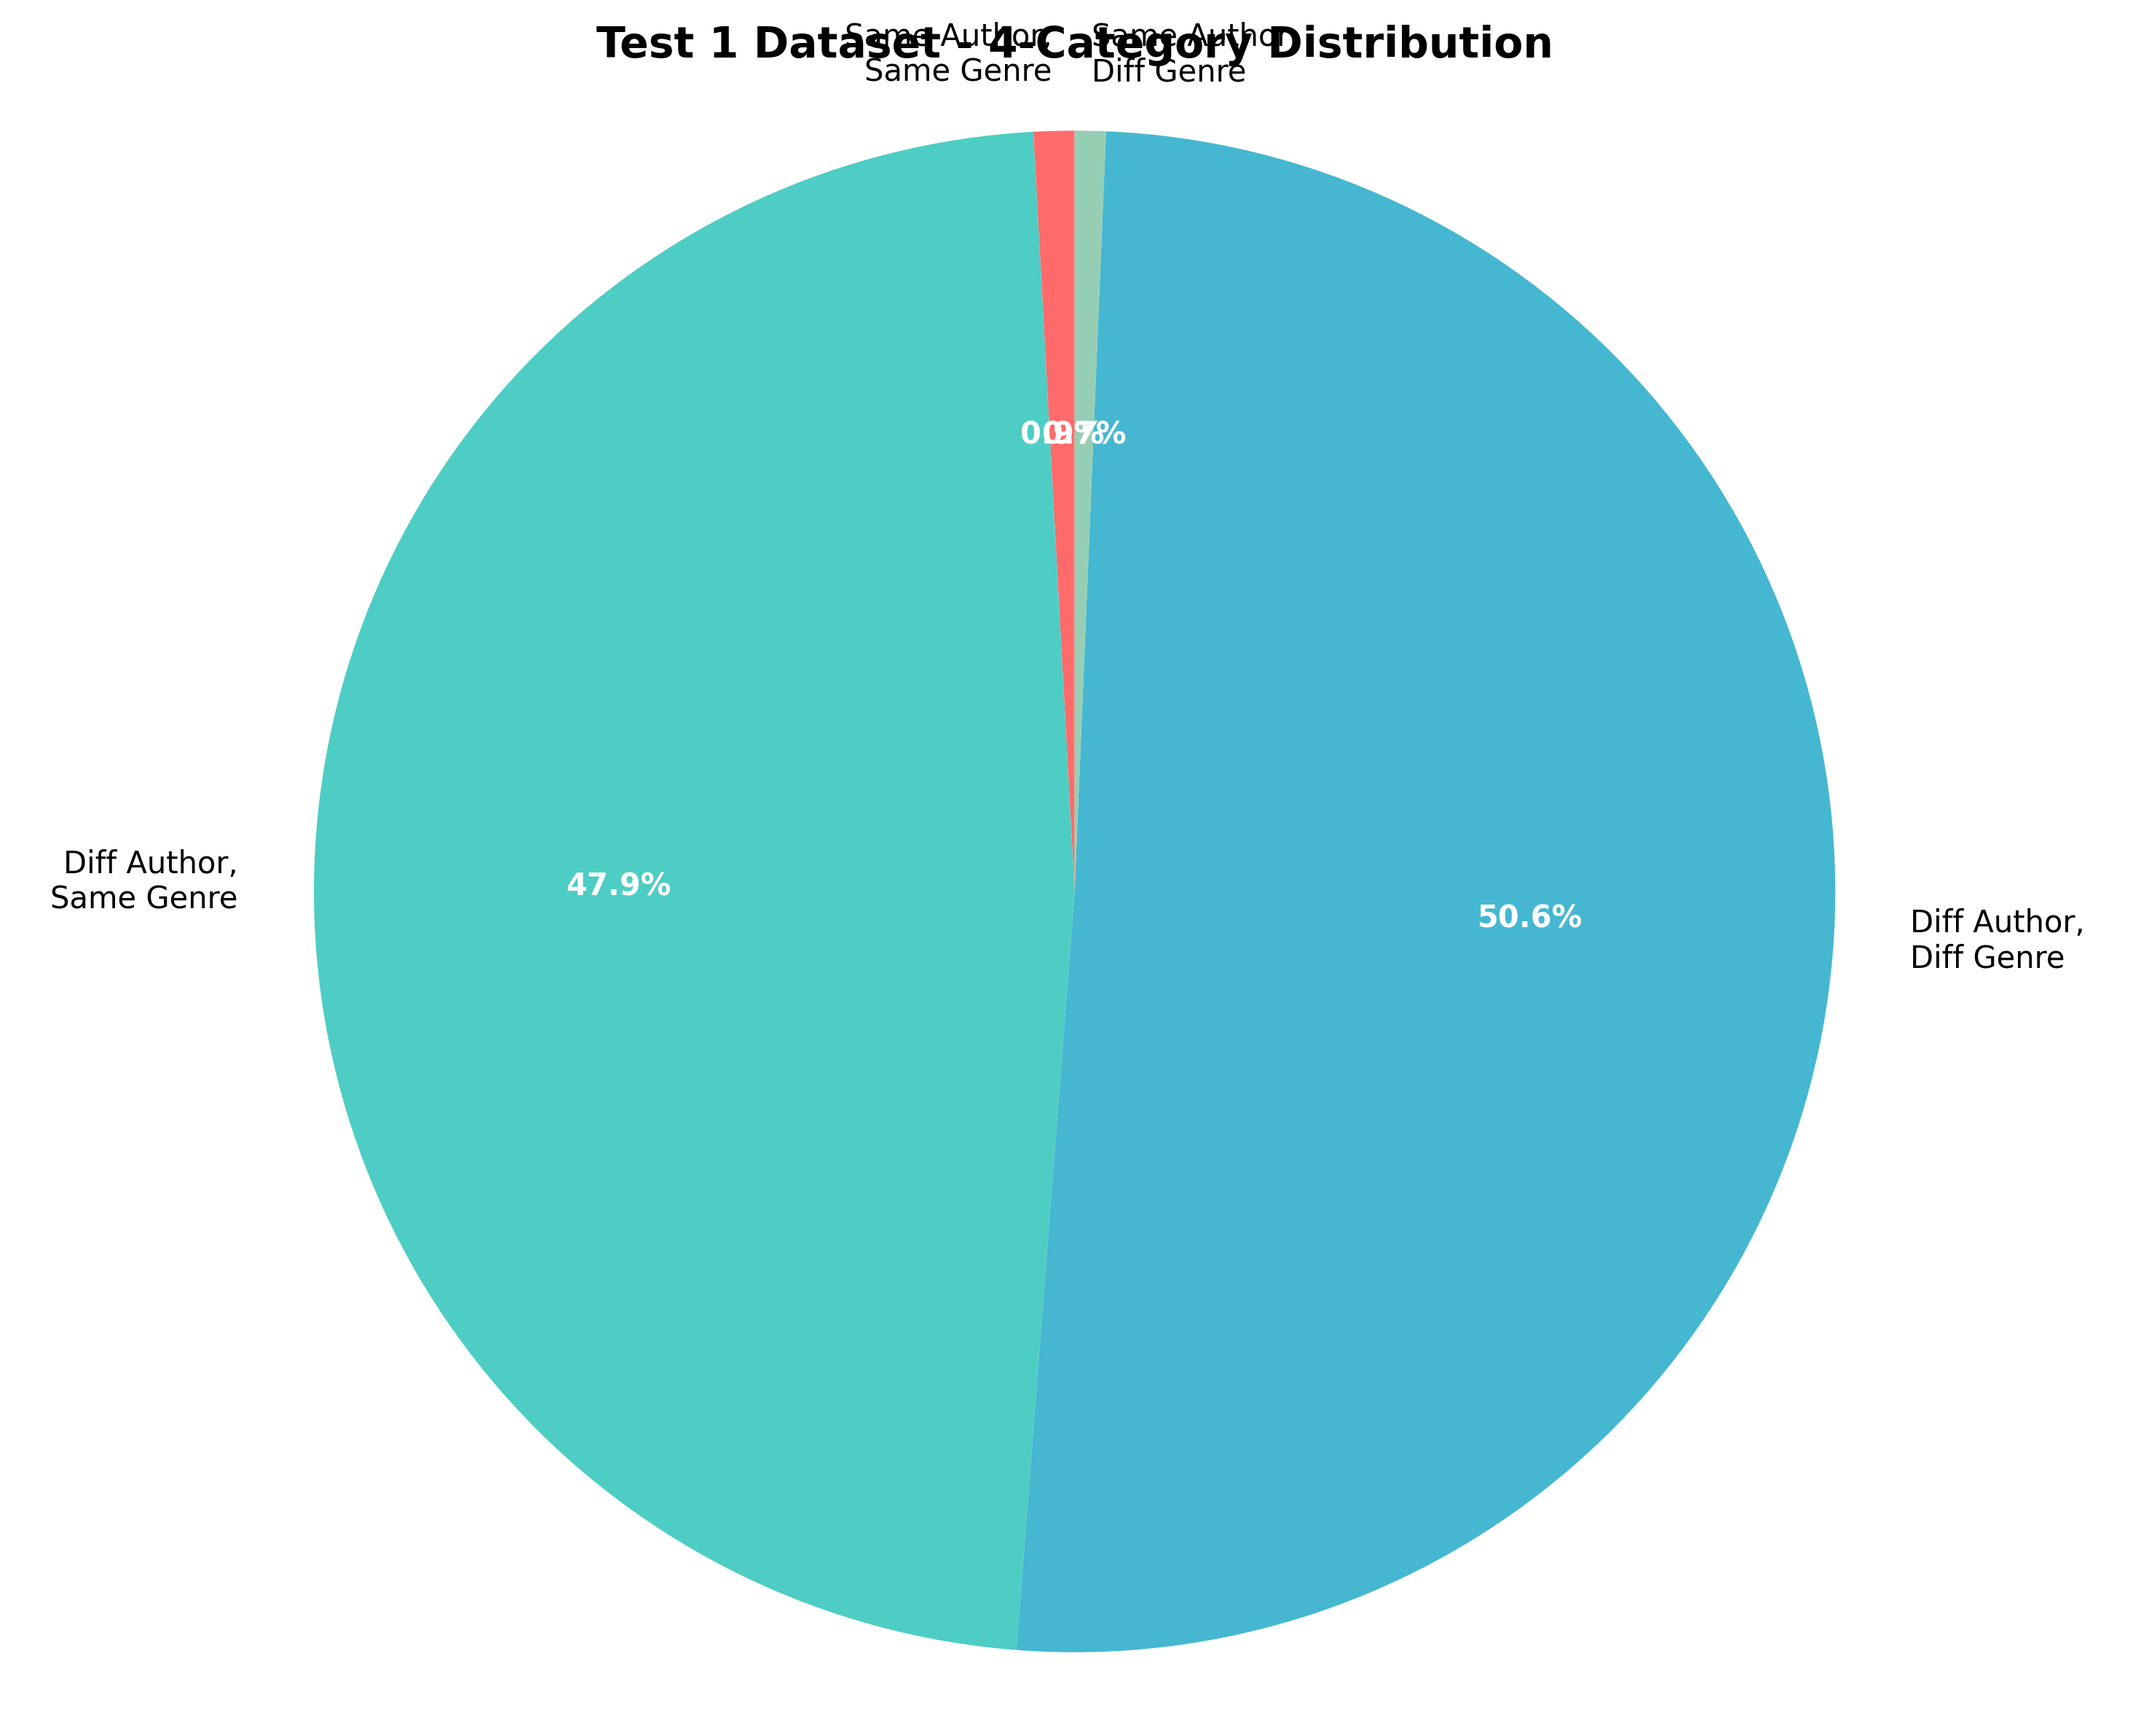
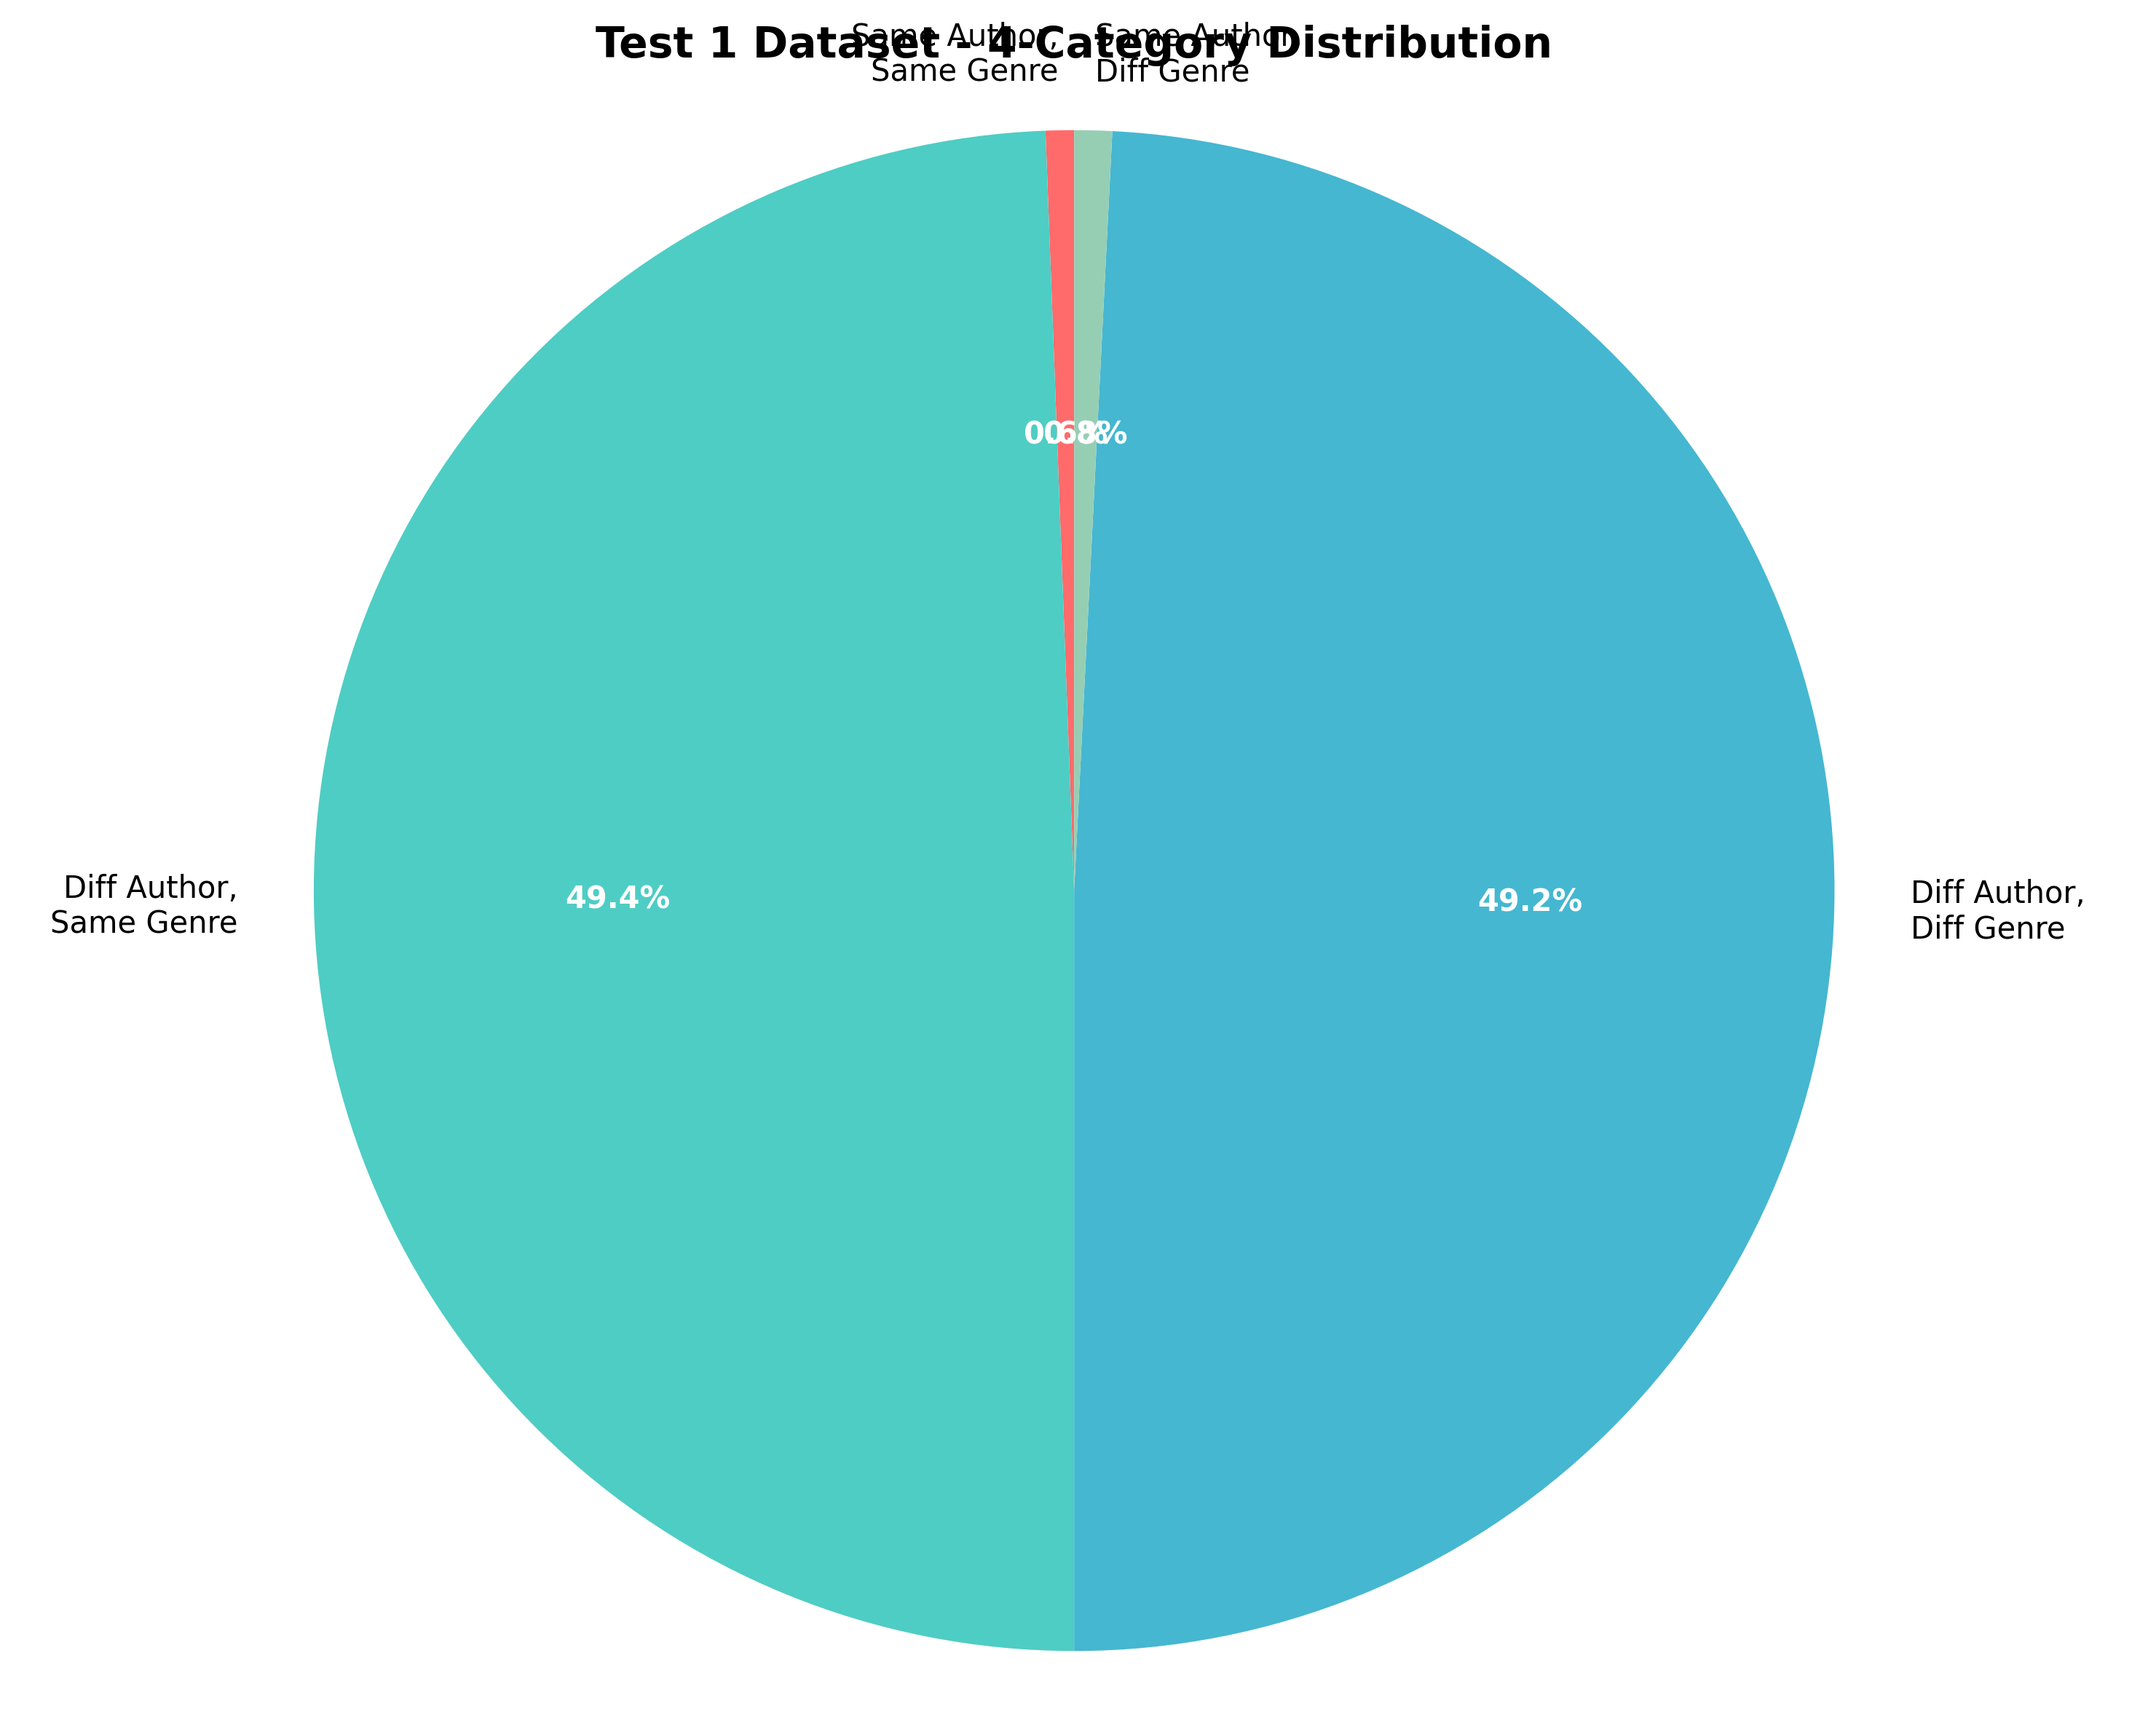
Sample a few dataset for train and test1.

diff --git a/data/split_train_and_test_1.py b/data/split_train_and_test_1.py
@@ -181,13 +181,42 @@ def add_mode_info(data):
 train_data_enhanced = add_mode_info(train_data)
 test_data_enhanced = add_mode_info(test_data)
 
-# Save enhanced data
+# Randomly sample desired amounts
+random.shuffle(train_data_enhanced)
+random.shuffle(test_data_enhanced)
+
+# Sample 6000 training pairs and 1500 test pairs
+target_train_size = 6000
+target_test_size = 1500
+
+sampled_train_data = train_data_enhanced[:min(target_train_size, len(train_data_enhanced))]
+sampled_test_data = test_data_enhanced[:min(target_test_size, len(test_data_enhanced))]
+
+# Print category distribution after sampling
+def print_category_distribution(data, name):
+    cat_counts = defaultdict(int)
+    mode_counts = defaultdict(int)
+    for item in data:
+        cat_counts[item['category']] += 1
+        mode_counts[item['mode']] += 1
+    
+    print(f"\n{name} - Category Distribution:")
+    for cat in sorted(cat_counts.keys()):
+        count = cat_counts[cat]
+        pct = 100 * count / len(data) if len(data) > 0 else 0
+        print(f"  Category {cat}: {count} pairs ({pct:.1f}%)")
+    
+    print(f"{name} - Mode Distribution:")
+    for mode, count in mode_counts.items():
+        pct = 100 * count / len(data) if len(data) > 0 else 0
+        print(f"  {mode}: {count} pairs ({pct:.1f}%)")
+
+# Save sampled data
 with open("../json/training_data.json", "w") as f:
-    json.dump(train_data_enhanced, f, ensure_ascii=False, indent=2)
+    json.dump(sampled_train_data, f, ensure_ascii=False, indent=2)
 
 with open("../json/testing_data_1.json", "w") as f:
-    json.dump(test_data_enhanced, f, ensure_ascii=False, indent=2)
+    json.dump(sampled_test_data, f, ensure_ascii=False, indent=2)
 
-
-print(f"Saved {len(train_data_enhanced)} pairs to training_data.json")
-print(f"Saved {len(test_data_enhanced)} pairs to testing_data_1.json")
+print(f"\nSaved {len(sampled_train_data)} pairs to training_data.json")
+print(f"Saved {len(sampled_test_data)} pairs to testing_data_1.json")

diff --git a/data/construct_test_2.py b/data/construct_test_2.py
@@ -93,8 +93,6 @@ final_data.extend(cat2_diff_author_same_genre)
 final_data.extend(cat3_diff_author_diff_genre)
 final_data.extend(cat4_same_author_diff_genre)
 
-print(f"Total pairs generated: {len(final_data)}")
-
 random.shuffle(final_data)
 
 # Add mode information and save

diff --git a/zero_shot/zero_shot_1.py b/zero_shot/zero_shot_1.py
@@ -8,7 +8,7 @@ with open('../json/testing_data_1.json', 'r') as file:
     test_data_1 = json.load(file)
 
 # Combine test data
-test_data = test_data_1[:1000]
+test_data = test_data_1
 
 # Initialize the Together client
 client = Together(api_key="YOUR_API_KEY")
